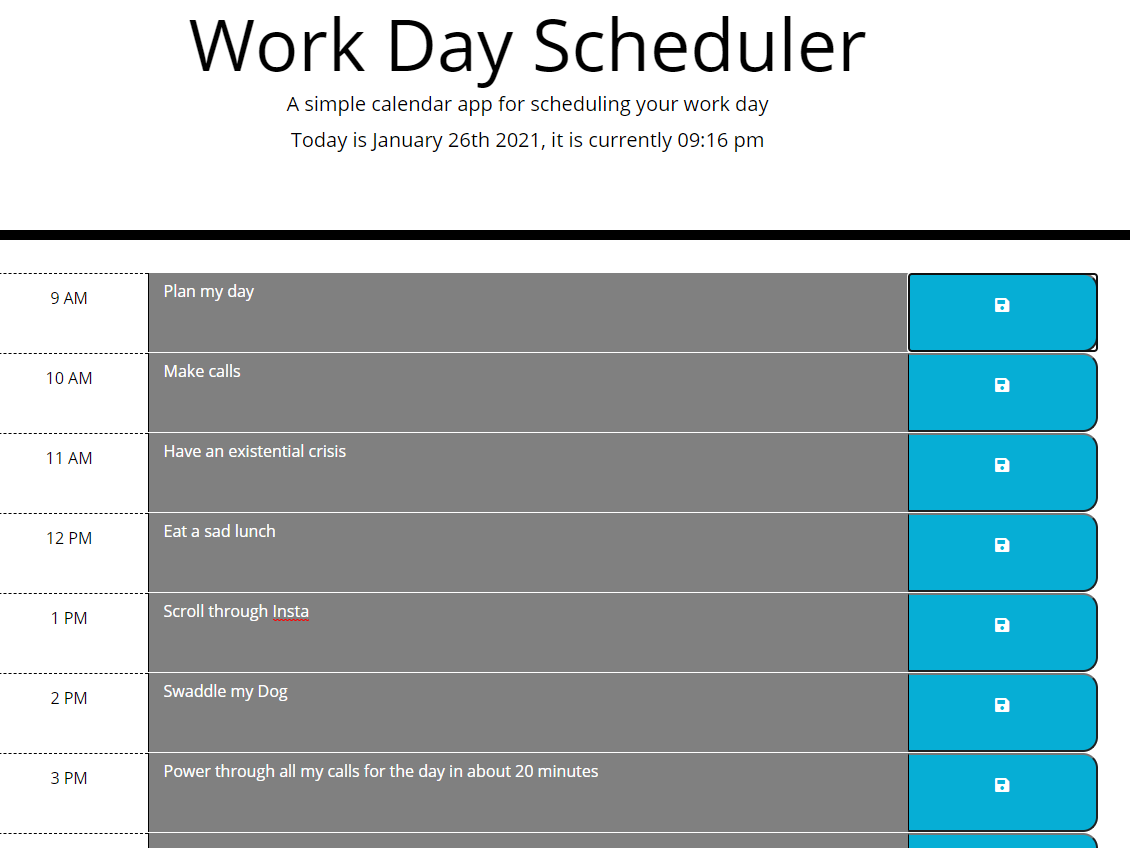
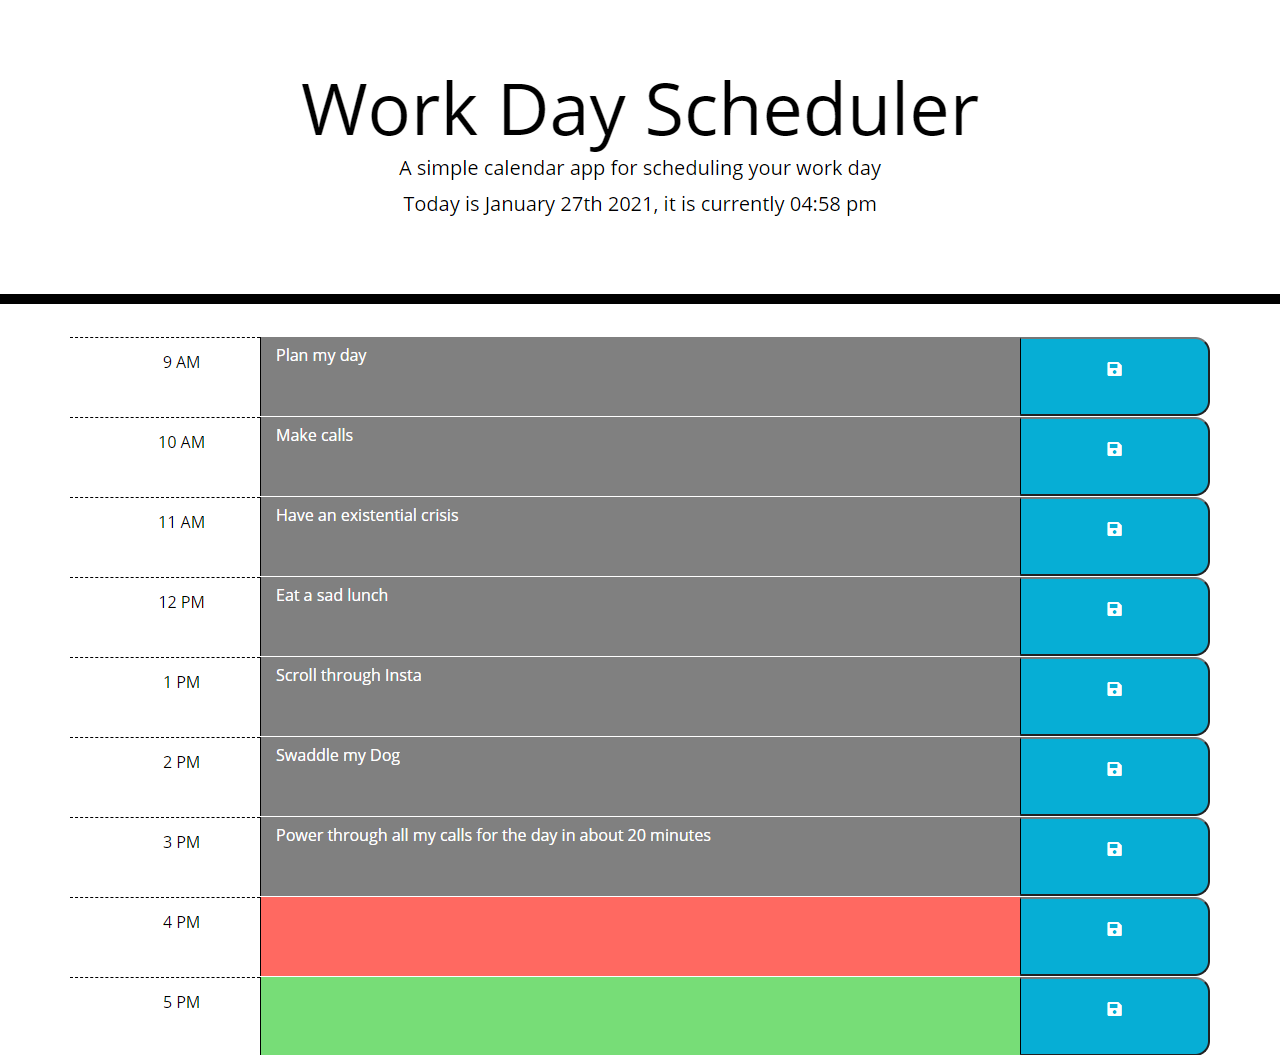
Updated the readme and made some minor tweaks to the code to make it easier to understand

diff --git a/index.html b/index.html
@@ -21,85 +21,85 @@
   </header>
   <div class="container">
     <!-- Timeblocks go here -->
-    <div id="9" class="row time-block" >
+    <div id="9timeBlock" class="row time-block">
       <p class="col-md-2 border-start-0 hour">
         9 AM
       </p>
       <textarea class="col-md-8">
         </textarea>
-      <button class="col-md-2 saveBtn fas fa-save">
+      <button class="col-md-2 saveBtn fa fa-save " aria-hidden="true">
       </button>
     </div>
-    <div id="10" class="row time-block">
+    <div id="10timeBlock" class="row time-block">
       <p class="col-md-2 border-start-0 hour">
         10 AM
       </p>
       <textarea class="col-md-8">
         </textarea>
-      <button class="col-md-2 saveBtn fas fa-save">
+      <button class="col-md-2 saveBtn fa fa-save " aria-hidden="true">
       </button>
     </div>
-    <div id="11" class="row time-block">
+    <div id="11timeBlock" class="row time-block">
       <p class="col-md-2 border-start-0 hour">
         11 AM
       </p>
       <textarea class="col-md-8">
         </textarea>
-      <button class="col-md-2 saveBtn fas fa-save">
+      <button class="col-md-2 saveBtn fa fa-save " aria-hidden="true">
       </button>
     </div>
-    <div id="12" class="row time-block">
+    <div id="12timeBlock" class="row time-block">
       <p class="col-md-2 border-start-0 hour">
         12 PM
       </p>
       <textarea class="col-md-8">
         </textarea>
-      <button class="col-md-2 saveBtn fas fa-save">
+      <button class="col-md-2 saveBtn fa fa-save " aria-hidden="true">
       </button>
     </div>
-    <div id="13" class="row time-block">
+    <div id="13timeBlock" class="row time-block">
       <p class="col-md-2 border-start-0 hour">
         1 PM
       </p>
       <textarea class="col-md-8">
         </textarea>
-      <button class="col-md-2 saveBtn fas fa-save">
+      <button class="col-md-2 saveBtn fa fa-save " aria-hidden="true">
       </button>
     </div>
-    <div id="14" class="row time-block">
+    <div id="14timeBlock" class="row time-block">
       <p class="col-md-2 border-start-0 hour">
         2 PM
       </p>
       <textarea class="col-md-8">
         </textarea>
-      <button class="col-md-2 saveBtn fas fa-save">
+      <button class="col-md-2 saveBtn fa fa-save " aria-hidden="true">
       </button>
     </div>
-    <div id="15" class="row time-block">
+    <div id="15timeBlock" class="row time-block">
       <p class="col-md-2 border-start-0 hour">
         3 PM
       </p>
       <textarea class="col-md-8">
         </textarea>
-      <button class="col-md-2 saveBtn fas fa-save">
+      <button class="col-md-2 saveBtn fa fa-save " aria-hidden="true">
       </button>
     </div>
-    <div id="16" class="row time-block">
+    <div id="16timeBlock" class="row time-block">
       <p class="col-md-2 border-start-0 hour">
         4 PM
       </p>
       <textarea class="col-md-8">
         </textarea>
-      <button class="col-md-2 saveBtn fas fa-save">
+      <button class="col-md-2 saveBtn fa fa-save " aria-hidden="true">
       </button>
     </div>
-    <div id="17" class="row time-block">
+    <div id="17timeBlock" class="row time-block">
       <p class="col-md-2 border-start-0 hour">
         5 PM
       </p>
       <textarea class="col-md-8">
         </textarea>
-      <button class="col-md-2 saveBtn fas fa-save">
+      <button class="col-md-2 saveBtn fa fa-save " aria-hidden="true">
       </button>
     </div>
 

diff --git a/Develop/script.js b/Develop/script.js
@@ -8,34 +8,34 @@ $(document).ready(function () {
     //Time will be variable to measure against
     var currentHour = moment().format('H');
 
-   //create time block elements using Jquery
+    //create time block elements using Jquery
     dateText.text("Today is " + date + ", it is currently " + time)
- 
-    
+
+
     //Create a for loop that writes the timeblocks to the page and the times using moment
-    for (var i = 9; i < 18; i++){
+    for (var i = 9; i < 18; i++) {
 
         //if statement that changes the background color of the calendar slot to future times as green
         if (i > currentHour) {
-           $("#"+i).children("textarea").addClass("future")
+            $("#" + i + "timeBlock").children("textarea").addClass("future")
         }
         //if statement that changes the background color of the calendar slot to past time as gray
         else if (i < currentHour) {
-            $("#"+i).children("textarea").addClass("past")
+            $("#" + i + "timeBlock").children("textarea").addClass("past")
         }
         //if statement that changes the background color of the calendar slot to present time as red
         else {
-            $("#"+i).children("textarea").addClass("present")
+            $("#" + i + "timeBlock").children("textarea").addClass("present")
         }
         // When the for loop iterates also check to see if there is a value saved to the key for that iteration
-        var event = localStorage.getItem(i)
+        var event = localStorage.getItem(i + "timeBlock")
         // Add the value to the text box if it exists in the local storage
-        $("#"+i).children("textarea").val(event)
-   
+        $("#" + i + "timeBlock").children("textarea").val(event)
+
     };
 
     //create a function that saves the text onto the Calendar using the button
-    $(".saveBtn").on("click", function(){
+    $(".saveBtn").on("click", function () {
         // Pull the Id to use as a reference
         var key = $(this).parent().attr("id")
         // Pull the value to save to Local storage
@@ -44,5 +44,5 @@ $(document).ready(function () {
     });
 
 
- 
+
 });
